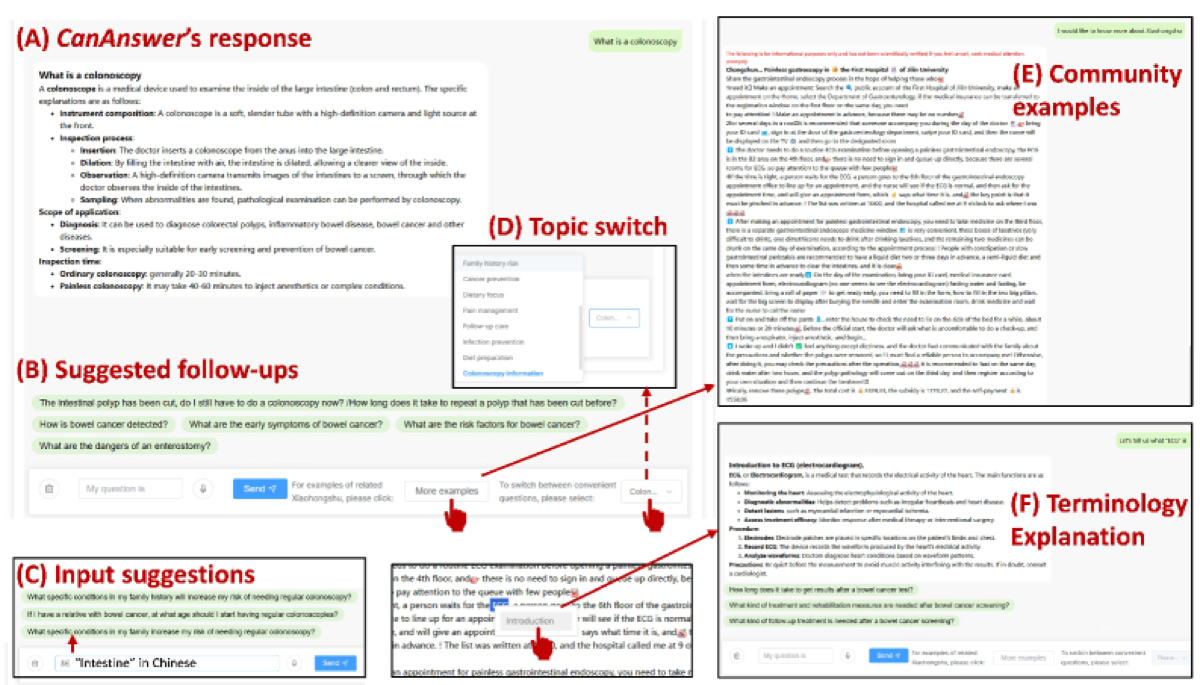
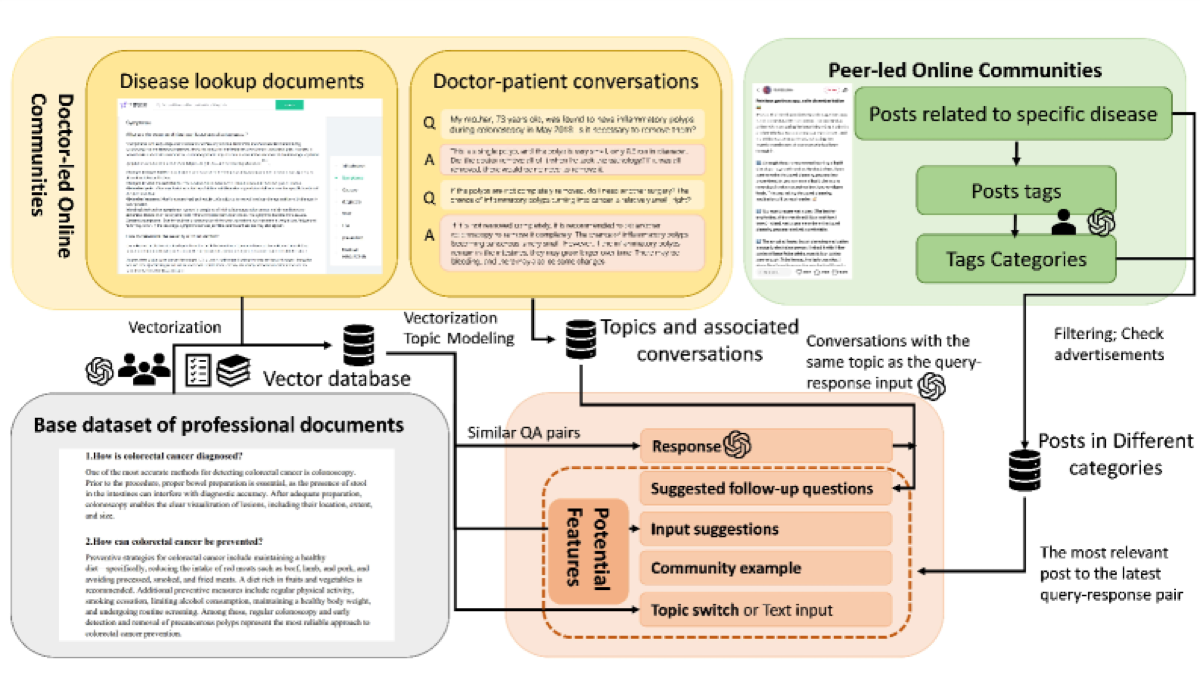
Use CanAnswer architecture figure; fix venue name to ICHEC
Swap the CanAnswer cover to the system architecture diagram (clearer
at thumbnail size), keep the LSCD-TTA pipeline figure, and correct
the venue abbreviation from CHEC to ICHEC.

diff --git a/src/data/publication.ts b/src/data/publication.ts
@@ -15,7 +15,7 @@ export interface Publication {
 export const publicationData: Publication[] = [
   {
     year: "2025",
-    conference: "CHEC",
+    conference: "ICHEC",
     title:
       "Exploring Community-Powered Conversational Agent for Health Knowledge Acquisition: A Case Study in Colorectal Cancer",
     authors:
